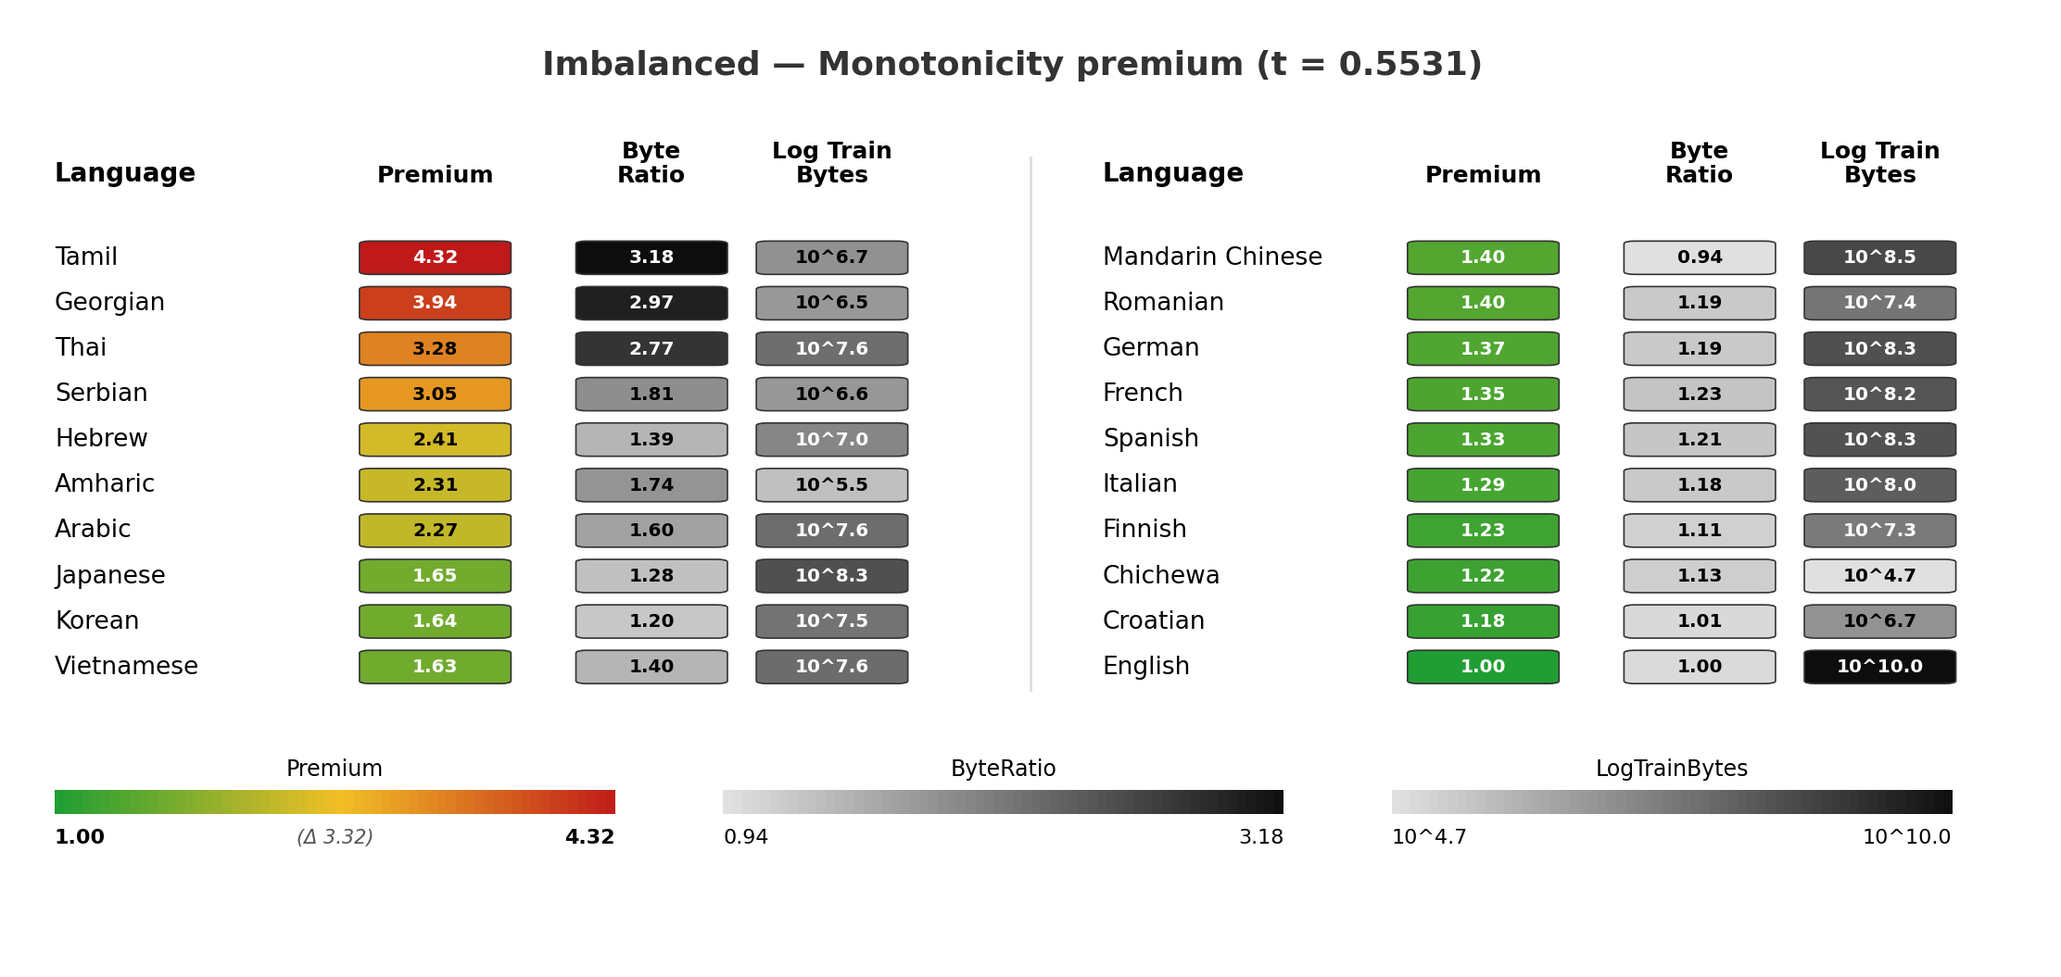
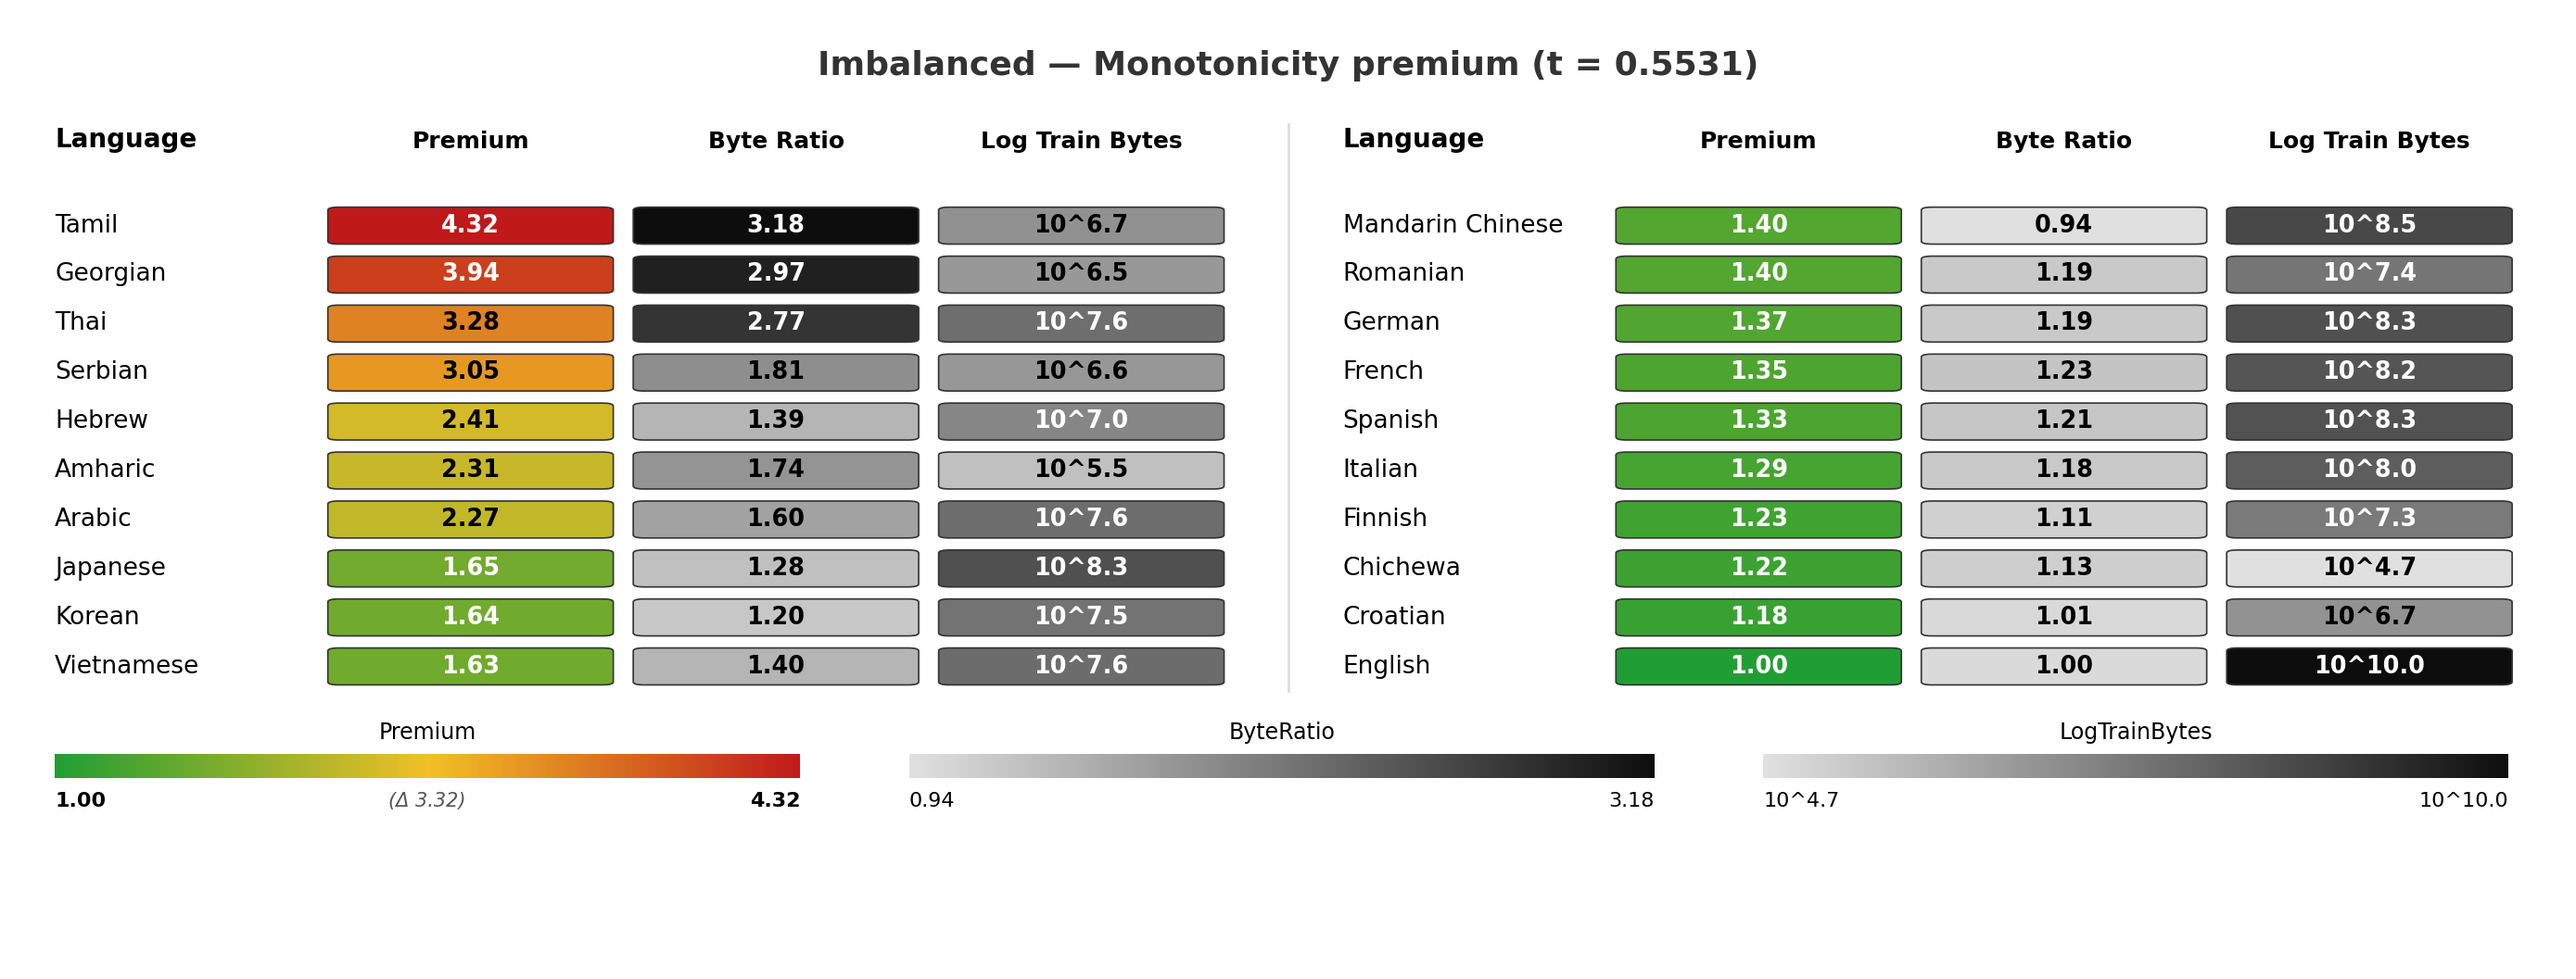
further changes to premium charts

diff --git a/results/txt_premiums_to_chart_per_setting.py b/results/txt_premiums_to_chart_per_setting.py
@@ -449,7 +449,29 @@ def wrap_col_header(col, width=9):
 # Drawing
 # --------------------------------------------------------------------------- #
 
-def draw_chart(table, title, display_cols, out_path):
+# Font sizes (fixed -- only column widths adapt to the number of columns)
+FS_TITLE = 13
+FS_LANG_HEADER = 10
+FS_COL_HEADER = 9
+FS_LANG = 9.5
+FS_CELL = 9.2
+FS_LEGEND_LABEL = 8.5
+FS_LEGEND_TICK = 8
+
+DEFAULT_FIG_WIDTH = 14.0   # inches; fixed total width of every chart
+
+
+def text_width_in(text, fontsize, fontweight="normal"):
+    """Rendered width of a (possibly multi-line) string, in inches."""
+    fig = plt.figure()
+    t = fig.text(0, 0, text, fontsize=fontsize, fontweight=fontweight)
+    fig.canvas.draw()
+    w = t.get_window_extent().width / fig.dpi
+    plt.close(fig)
+    return w
+
+
+def draw_chart(table, title, display_cols, out_path, fig_width=DEFAULT_FIG_WIDTH):
     langs = list(table.keys())  # file order (already sorted by premium)
     n = len(langs)
     half = (n + 1) // 2
@@ -466,39 +488,54 @@ def draw_chart(table, title, display_cols, out_path):
 
     # --- Labels -------------------------------------------------------------
     labels = {l: CODE_TO_LANG_NAME.get(l, l) for l in langs}
-    headers = {c: wrap_col_header(DISPLAY_NAMES.get(c, c)) for c in display_cols}
-    header_lines = max([h.count("\n") + 1 for h in headers.values()] + [1])
 
     # --- Geometry (x in inches, y in row units) -----------------------------
-    sq = 0.8                        # box width (inches)
-    box_h_in = 0.18                 # box height (inches)
+    # Horizontal layout: the figure has a fixed width. In each half, the
+    # language column is as wide as the longest language name; the premium
+    # column and the extra columns share the remaining width equally.
+    margin = 0.2                    # left/right margin (inches)
+    gap = 0.6                       # space between the two halves (inches)
+    lang_pad = 0.25                 # space between language names and first box
+    col_pad = 0.15                  # horizontal space between neighbouring boxes
+    min_col_w = 0.7                 # below this, cell values no longer fit
+
+    lang_w = max(text_width_in(s, FS_LANG, "medium") for s in list(labels.values()) + ["Language"]) + lang_pad
+    n_extra = len(display_cols)
+    n_cols = 1 + n_extra            # premium + extras
+
+    block_w = (fig_width - 2 * margin - gap) / 2
+    col_w = (block_w - lang_w) / n_cols
+    if col_w < min_col_w:           # too many columns for this width: grow the figure
+        col_w = min_col_w
+        block_w = lang_w + n_cols * col_w
+        fig_width = 2 * margin + 2 * block_w + gap
+        print(f"note: widened figure to {fig_width:.1f} in to fit {n_cols} columns")
+    sq = col_w - col_pad            # box width (inches)
+
+    # Column headers wrap to fit their column
+    chars_per_line = max(5, int(col_w / (0.62 * FS_COL_HEADER / 72)))
+    headers = {c: wrap_col_header(DISPLAY_NAMES.get(c, c), chars_per_line) for c in display_cols}
+    header_lines = max([h.count("\n") + 1 for h in headers.values()] + [1])
+
+    # Vertical layout
+    box_h_in = 0.2                 # box height (inches)
     row_gap_in = 0.08               # empty space between rows of boxes (inches)
     row_h = box_h_in + row_gap_in   # inches per row
     box_h = box_h_in / row_h        # box height as a fraction of the row (y is in row units)
     # y is in row units, so header/legend offsets are scaled by u to keep them
     # a fixed physical size no matter how tight the rows are.
     u = 0.55 / row_h
-    col_spacing = 1.0
-    max_label_len = max(len(s) for s in labels.values())
-    lang_w = max(1.7, 0.085 * max_label_len + 0.35)
-    extra_offset = sq + 0.4
-    n_extra = len(display_cols)
-    block_w = lang_w + extra_offset + n_extra * col_spacing + 0.1
-    gap = 0.8
 
-    blocks_w = 0.2 + 2 * block_w + gap
+    table_left = margin
+    table_right = fig_width - margin - col_pad / 2   # right edge of the last box
+
     # Legend row: one gradient per column (premium + extras), stretched so
     # together they span the full table width from the left edge to the right.
-    n_legends = 1 + n_extra
+    n_legends = n_cols
     legend_gap = 0.6
-    min_grad_w = 1.6
-    table_left = 0.2
-    table_right = blocks_w - 0.1 - (col_spacing - sq) if n_extra else blocks_w - 0.1  # right edge of last box
     grad_w = (table_right - table_left - (n_legends - 1) * legend_gap) / n_legends
-    grad_w = max(grad_w, min_grad_w)
     legend_spacing = grad_w + legend_gap
-    legend_w = table_left + n_legends * grad_w + (n_legends - 1) * legend_gap
-    fig_w = max(blocks_w, legend_w) + 0.2
+    fig_w = fig_width
 
     header_line_h = 0.35 * u
     extra_top = header_line_h * (header_lines - 1)
@@ -520,7 +557,7 @@ def draw_chart(table, title, display_cols, out_path):
             )
             ax.add_patch(rect)
             ax.text(x + sq / 2, y + box_h / 2, "N/A", ha="center", va="center",
-                    fontsize=7.2, color="#aaaaaa", fontweight="bold")
+                    fontsize=FS_CELL, color="#aaaaaa", fontweight="bold")
         else:
             rect = patches.FancyBboxPatch(
                 (x, y), sq, box_h,
@@ -529,31 +566,32 @@ def draw_chart(table, title, display_cols, out_path):
             )
             ax.add_patch(rect)
             ax.text(x + sq / 2, y + box_h / 2, text, ha="center", va="center",
-                    fontsize=7.2, color=text_color_for(color), fontweight="bold")
+                    fontsize=FS_CELL, color=text_color_for(color), fontweight="bold")
 
     # --- Title --------------------------------------------------------------
     ytop = half + 0.6 * u
-    ax.text(blocks_w / 2, ytop + extra_top + 0.75 * u, title, fontsize=13,
+    ax.text(fig_w / 2, ytop + extra_top + 0.75 * u, title, fontsize=FS_TITLE,
             fontweight="bold", ha="center", va="bottom", color="#333333")
 
     # --- Two blocks ---------------------------------------------------------
     for b, block_langs in enumerate(halves):
         if not block_langs:
             continue
-        x0 = 0.2 + b * (block_w + gap)
-        x_prem = x0 + lang_w
-        x_extra = {c: x_prem + extra_offset + i * col_spacing for i, c in enumerate(display_cols)}
+        x0 = margin + b * (block_w + gap)
+        # left edge of each box; every data column is col_w wide, box centered in it
+        x_prem = x0 + lang_w + col_pad / 2
+        x_extra = {c: x_prem + (i + 1) * col_w for i, c in enumerate(display_cols)}
 
-        ax.text(x0, ytop, "Language", fontsize=10, fontweight="bold", va="bottom")
-        ax.text(x_prem + sq / 2, ytop, "Premium", fontsize=9, fontweight="bold", ha="center", va="bottom")
+        ax.text(x0, ytop, "Language", fontsize=FS_LANG_HEADER, fontweight="bold", va="bottom")
+        ax.text(x_prem + sq / 2, ytop, "Premium", fontsize=FS_COL_HEADER, fontweight="bold", ha="center", va="bottom")
         for col in display_cols:
-            ax.text(x_extra[col] + sq / 2, ytop, headers[col], fontsize=9, fontweight="bold",
+            ax.text(x_extra[col] + sq / 2, ytop, headers[col], fontsize=FS_COL_HEADER, fontweight="bold",
                     ha="center", va="bottom", multialignment="center", linespacing=1.1)
 
         for r, lang in enumerate(block_langs):
             y = half - r - 0.3 - box_h / 2   # box vertically centered in its row
             premium, extras = table[lang]
-            ax.text(x0, y + box_h / 2, labels[lang], fontsize=9.5, va="center", fontweight="medium")
+            ax.text(x0, y + box_h / 2, labels[lang], fontsize=FS_LANG, va="center", fontweight="medium")
             draw_square(x_prem, y, premium_color(premium, p_min, p_max), f"{premium:.2f}")
             for col in display_cols:
                 val = extras[col]
@@ -563,12 +601,12 @@ def draw_chart(table, title, display_cols, out_path):
 
     # Divider between the two halves
     if halves[1]:
-        x_div = 0.2 + block_w + gap / 2
+        x_div = margin + block_w + gap / 2
         ax.plot([x_div, x_div], [0.2, ytop + 0.3 * u], color="#dddddd", lw=1)
 
     # --- Legends ------------------------------------------------------------
-    n_steps = 60
-    leg_y = -1.2 * u
+    n_steps = 200
+    leg_y = -0.8 * u
 
     def draw_gradient(x0, color_at_t):
         for k in range(n_steps):
@@ -584,10 +622,10 @@ def draw_chart(table, title, display_cols, out_path):
     # Premium legend (this chart's own scale)
     draw_gradient(leg_x0, green_red_gradient)
     ax.text(leg_x0 + grad_w / 2, leg_y + 0.35 * u, "Premium",
-            fontsize=8.5, ha="center", va="bottom")
-    ax.text(leg_x0, leg_y - 0.3 * u, f"{p_min:.2f}", fontsize=8, ha="left", fontweight="semibold")
-    ax.text(leg_x0 + grad_w, leg_y - 0.3 * u, f"{p_max:.2f}", fontsize=8, ha="right", fontweight="semibold")
-    ax.text(leg_x0 + grad_w / 2, leg_y - 0.3 * u, f"(\u0394 {p_max - p_min:.2f})", fontsize=7.5,
+            fontsize=FS_LEGEND_LABEL, ha="center", va="bottom")
+    ax.text(leg_x0, leg_y - 0.3 * u, f"{p_min:.2f}", fontsize=FS_LEGEND_TICK, ha="left", fontweight="semibold")
+    ax.text(leg_x0 + grad_w, leg_y - 0.3 * u, f"{p_max:.2f}", fontsize=FS_LEGEND_TICK, ha="right", fontweight="semibold")
+    ax.text(leg_x0 + grad_w / 2, leg_y - 0.3 * u, f"(\u0394 {p_max - p_min:.2f})", fontsize=FS_LEGEND_TICK - 0.5,
             ha="center", color="#555555", fontstyle="italic")
 
     # Extra-column legends
@@ -595,10 +633,10 @@ def draw_chart(table, title, display_cols, out_path):
         x0 = leg_x0 + (i + 1) * legend_spacing
         vmin, vmax = extra_minmax[col]
         draw_gradient(x0, lambda t, vmin=vmin, vmax=vmax: grey_color(vmin + t * (vmax - vmin), vmin, vmax))
-        ax.text(x0 + grad_w / 2, leg_y + 0.35 * u, DISPLAY_NAMES.get(col, col), fontsize=8.5,
+        ax.text(x0 + grad_w / 2, leg_y + 0.35 * u, DISPLAY_NAMES.get(col, col), fontsize=FS_LEGEND_LABEL,
                 ha="center", va="bottom")
-        ax.text(x0, leg_y - 0.3 * u, format_legend_value(col, vmin), fontsize=8, ha="left")
-        ax.text(x0 + grad_w, leg_y - 0.3 * u, format_legend_value(col, vmax), fontsize=8, ha="right")
+        ax.text(x0, leg_y - 0.3 * u, format_legend_value(col, vmin), fontsize=FS_LEGEND_TICK, ha="left")
+        ax.text(x0 + grad_w, leg_y - 0.3 * u, format_legend_value(col, vmax), fontsize=FS_LEGEND_TICK, ha="right")
 
     plt.tight_layout()
     plt.savefig(out_path, dpi=200, bbox_inches="tight", facecolor="white")
@@ -626,6 +664,9 @@ def main():
                         help="Extra columns for the global chart (overrides --cols)")
     parser.add_argument("--mono-cols", default=None,
                         help="Extra columns for the monotonicity chart (overrides --cols)")
+    parser.add_argument("--width", type=float, default=DEFAULT_FIG_WIDTH,
+                        help=f"Total chart width in inches (default {DEFAULT_FIG_WIDTH}). "
+                             "Fonts stay fixed; columns share the space left after the language column.")
     parser.add_argument("--spread-json", help="Path to byte position stats JSON file for standard spread")
     parser.add_argument("--spread-customenc-json", help="Path to byte position stats JSON file for custom encoding spread")
     args = parser.parse_args()
@@ -663,7 +704,7 @@ def main():
         m = re.search(r"_t_([0-9.]+)_", os.path.basename(path))
         title = f"{prefix} \u2014 {name.capitalize()} premium" + (f" (t = {m.group(1)})" if m else "")
         out_path = os.path.join(out_dir, f"{prefix}_{name}_premium_chart.png")
-        draw_chart(table, title, display_cols, out_path)
+        draw_chart(table, title, display_cols, out_path, fig_width=args.width)
 
 
 if __name__ == "__main__":
